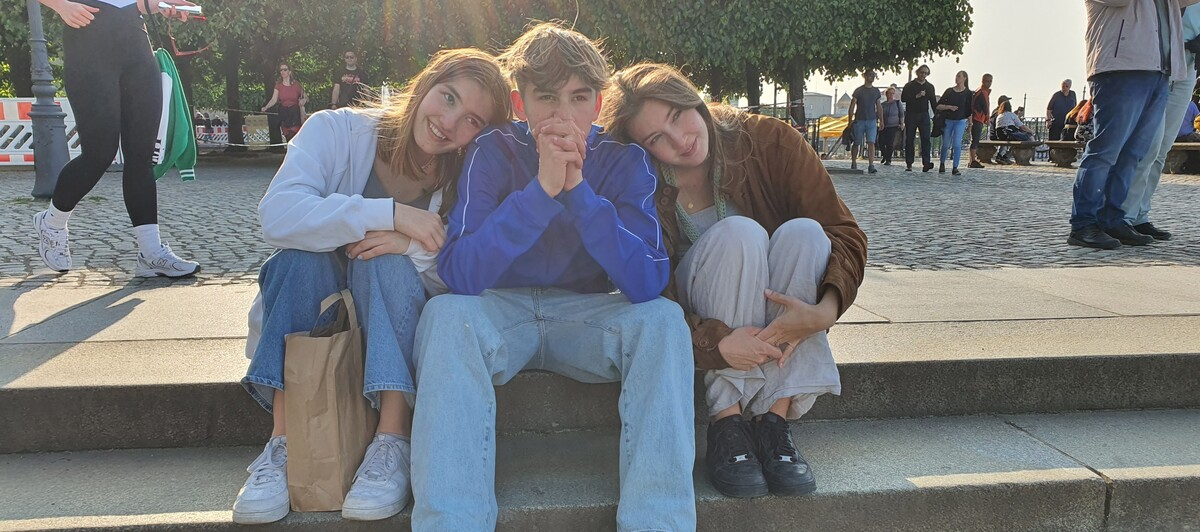
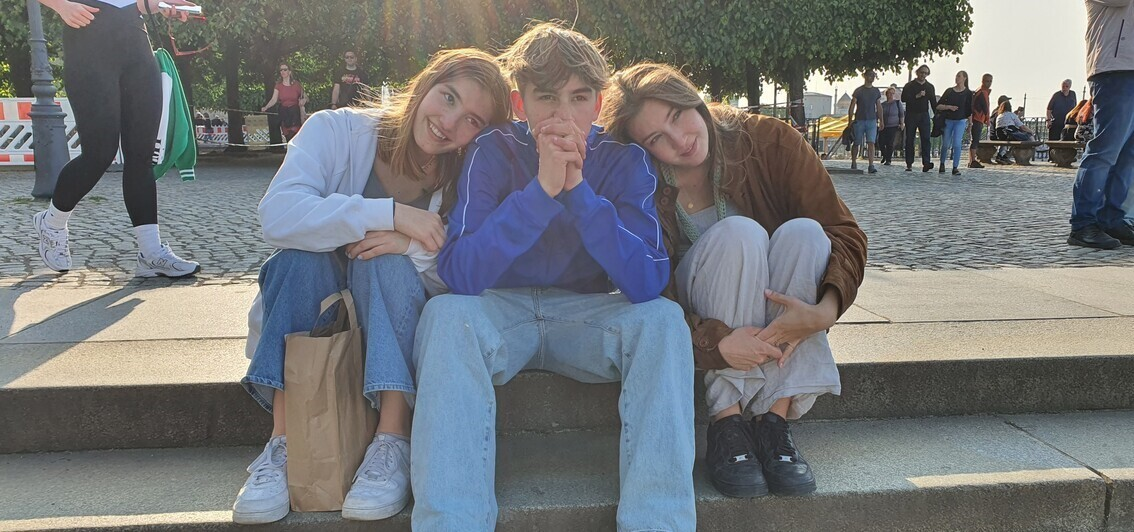
adapt picture sizes, add help page

diff --git a/help.html b/help.html
@@ -15,21 +15,11 @@
 	</head>
 	<body>
 		<div class="reveal">
-			<p style="position:absolute; bottom:0; left: 0; padding: 0; margin: 0.5em; z-index: 1;"><a href="help.html">?</a></p>
 			<div class="slides">
-				<section data-transition="fade-out" data-background-opacity="0.4" data-background="assets/20230726_202301.jpg">
-					<h1 style="color: rgb(255, 255, 255);">Merry<br/> Christmas</h1>
-					<h2>2023</h2>
-				</section>
-				<section data-background-opacity="0.4" data-transition="fade-in fade-out" data-background="assets/20230527_182837.jpg">
-					<h1>Happy<br/> New Year</h1>
-					<h2 style="color: rgb(255, 255, 255);">2024</h2>
-				</section>
-				<section data-background-transition="fade" data-background-opacity="1" data-background="assets/20230713_161539388_iOS_2.jpg">
-				</section>
-				<section data-transition="zoom" data-background-opacity="0.4" data-background="assets/20230713_161539388_iOS_2.jpg">
-					<h2 style="color: rgb(255, 255, 255);">from</h2>
-					<h3>Hans - Mia - Hannah - Anja - Elias</h3>
+				<section>
+					<p>On mobile: rotate your phone to see the full picture...</p>
+					<p><a href="index.html">back ...</a></p>
+					<p></p>
 				</section>
 			</div>
 		</div>
